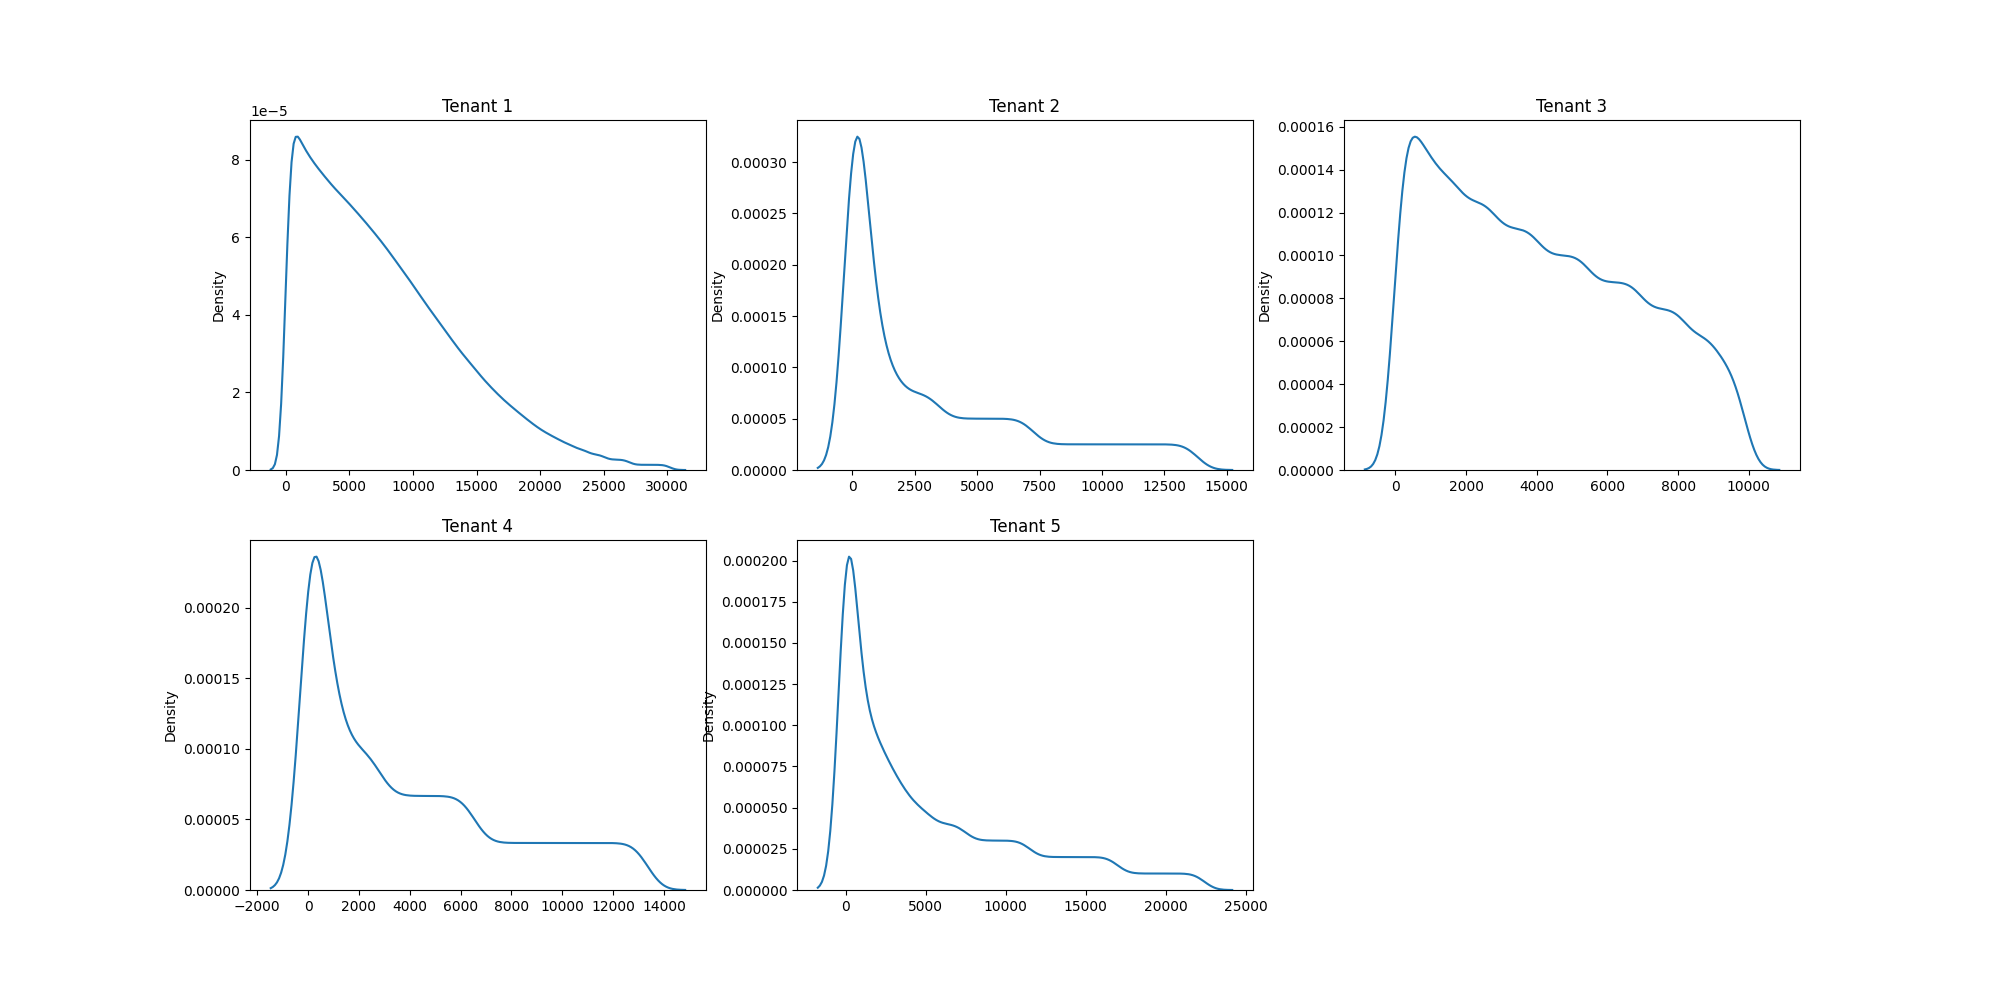
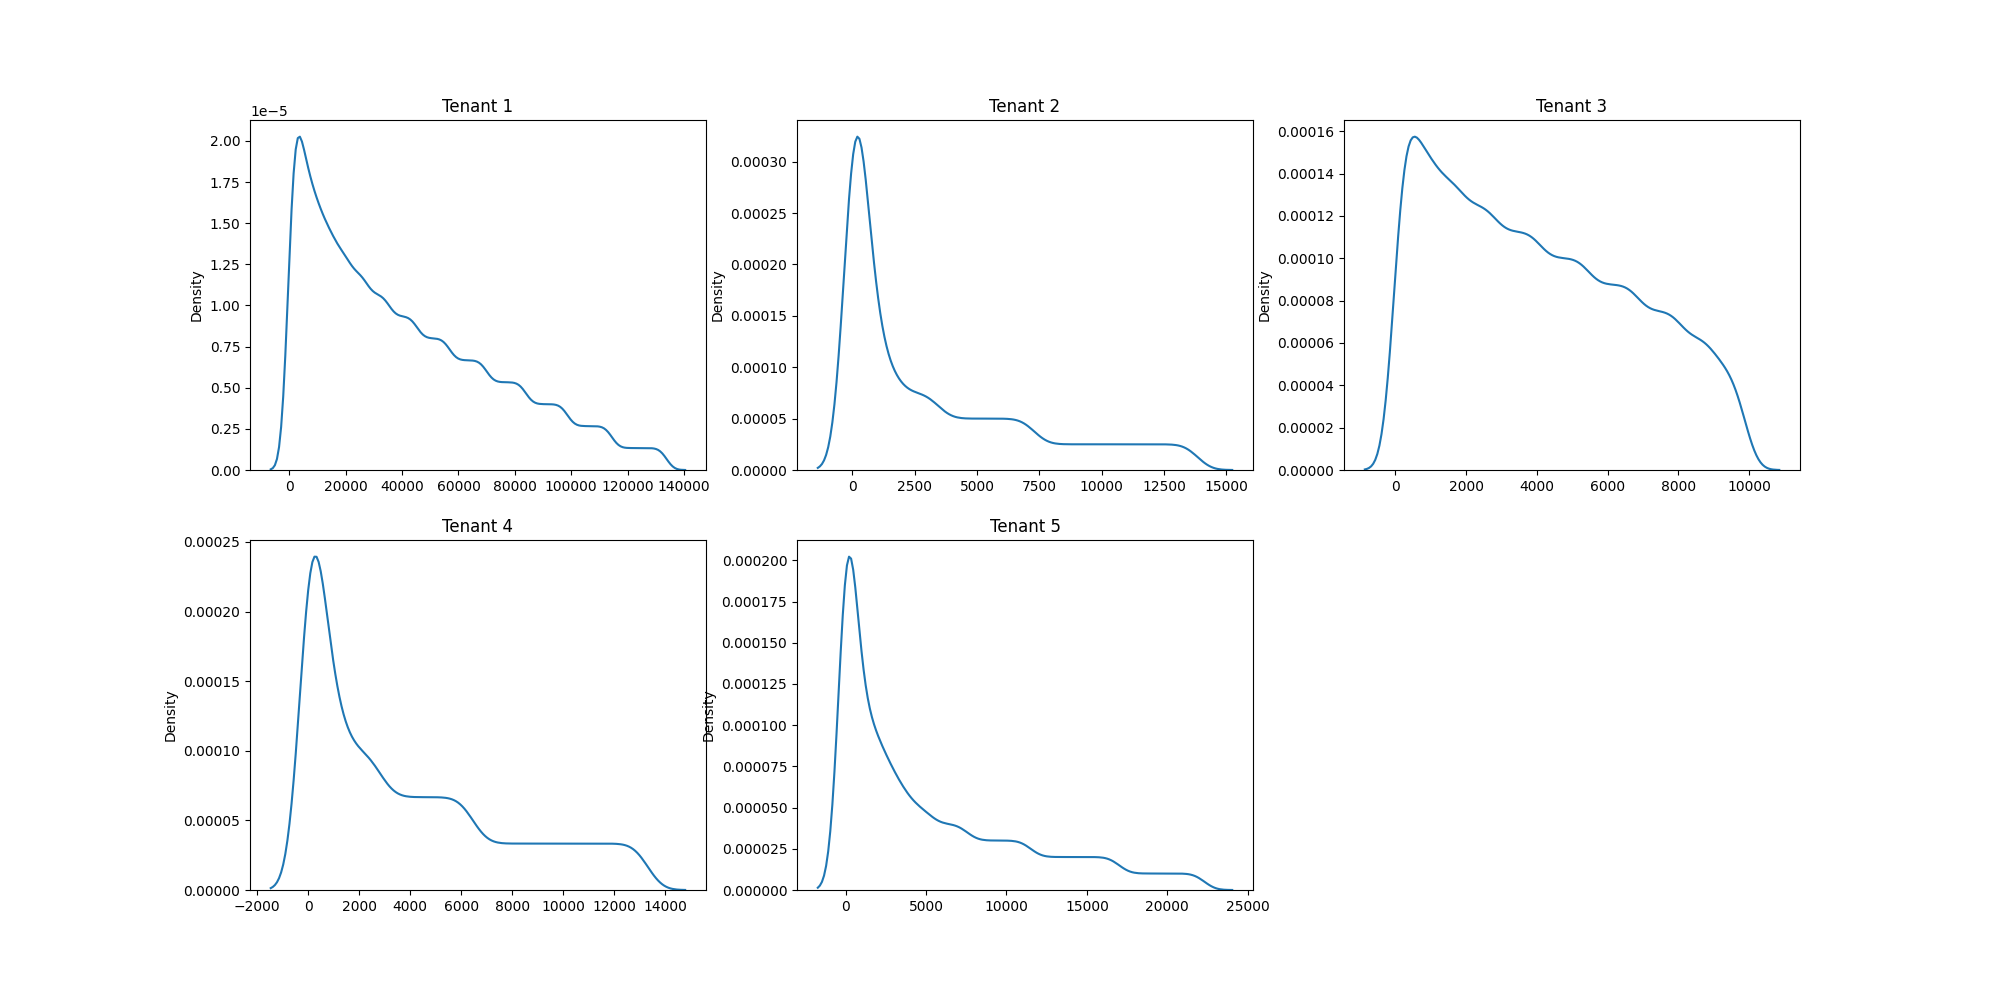
feat/modify-test-5

diff --git a/test_cases/test_case_5/description.py b/test_cases/test_case_5/description.py
@@ -9,17 +9,16 @@ tenants = [
         'minimum_buffer_size': 10000,
         'base_buffer_size': 30000,
         'maximum_buffer_size': 100000,
-        'page_accesses_dist': {
+        'page_accesses_dist': [
+          {
             'type': 'normal',
             'variance': 10000,
-            'length': 750000,
-        },
-        'pages_should_be_renumbered': False,
-        'page_accesses_interval_dist': {
-            'type': 'uniform',
-            'length': 750000,
-            'max_value': 1,
-        },
+            'length': 75000,
+            'interval_type': 'uniform', 
+            'interval_max_value': 1,
+          },
+        ] * 10,
+        'pages_should_be_renumbered': True,
     },
     {
         'tenant_id': 2,
@@ -28,17 +27,16 @@ tenants = [
         'minimum_buffer_size': 1000,
         'base_buffer_size': 3000,
         'maximum_buffer_size': 10000,
-        'page_accesses_dist': {
+        'page_accesses_dist': [
+          {
             'type': 'pareto',
             'parameter': 0.05,
             'length': 40000,
-        },
+            'interval_type': 'uniform',
+            'interval_max_value': 1,
+          },
+        ],
         'pages_should_be_renumbered': False,
-        'page_accesses_interval_dist': {
-            'type': 'uniform',
-            'length': 40000,
-            'max_value': 1,
-        },
     },
     {
         'tenant_id': 3,
@@ -47,16 +45,15 @@ tenants = [
         'minimum_buffer_size': 1500,
         'base_buffer_size': 5000,
         'maximum_buffer_size': 12500,
-        'page_accesses_dist': {
+        'page_accesses_dist': [
+          {
             'type': 'uniform',
             'length': 80000,
-        },
+            'interval_type': 'uniform',
+            'interval_max_value': 10,
+          },
+        ],
         'pages_should_be_renumbered': True,
-        'page_accesses_interval_dist': {
-            'type': 'uniform',
-            'length': 80000,
-            'max_value': 10,
-        },
     },
     {
         'tenant_id': 4,
@@ -65,17 +62,16 @@ tenants = [
         'minimum_buffer_size': 800,
         'base_buffer_size': 2000,
         'maximum_buffer_size': 5000,
-        'page_accesses_dist': {
+        'page_accesses_dist': [
+          {
             'type': 'zipfian',
             'parameter': 1.01,
             'length': 30000,
-        },
+            'interval_type': 'uniform',
+            'interval_max_value': 1,
+          },
+        ],  
         'pages_should_be_renumbered': False,
-        'page_accesses_interval_dist': {
-            'type': 'uniform',
-            'length': 30000,
-            'max_value': 1,
-        },
     },
     {
         'tenant_id': 5,
@@ -84,17 +80,16 @@ tenants = [
         'minimum_buffer_size': 1500,
         'base_buffer_size': 5000,
         'maximum_buffer_size': 12500,
-        'page_accesses_dist': {
+        'page_accesses_dist': [
+          {
             'type': 'pareto',
             'parameter': 0.04,
             'length': 100000,
-        },
+            'interval_type': 'uniform',
+            'interval_max_value': 1,
+          },
+        ],
         'pages_should_be_renumbered': False,
-        'page_accesses_interval_dist': {
-            'type': 'uniform',
-            'length': 100000,
-            'max_value': 1,
-        },
     },
 ]
 
